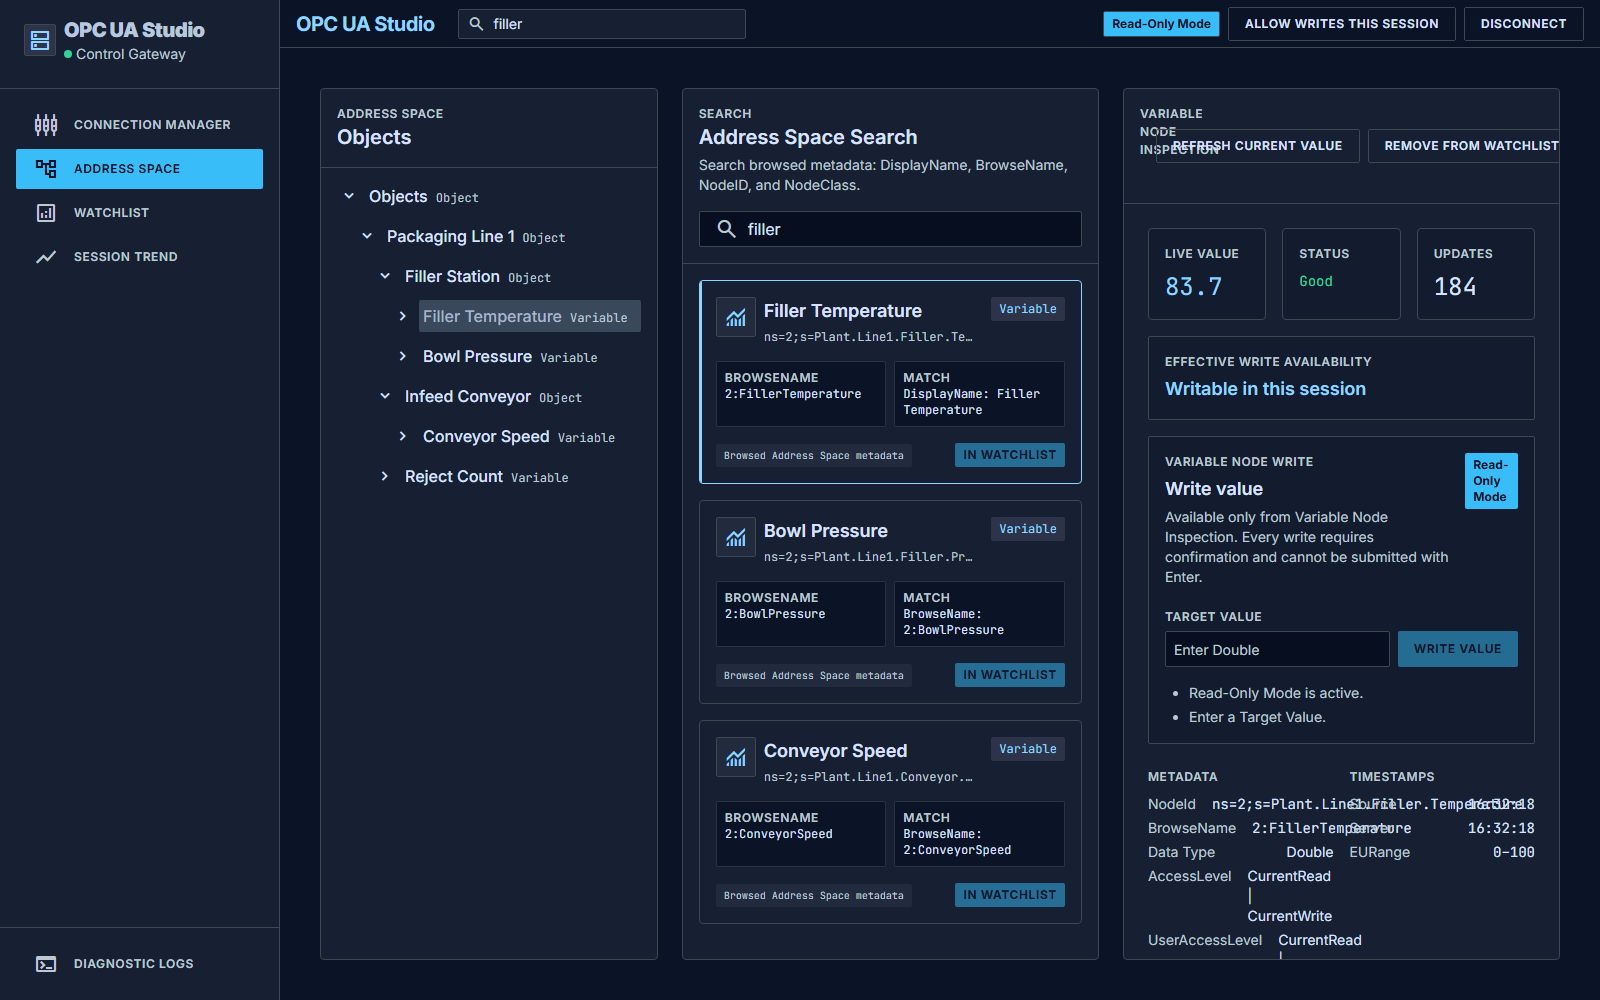
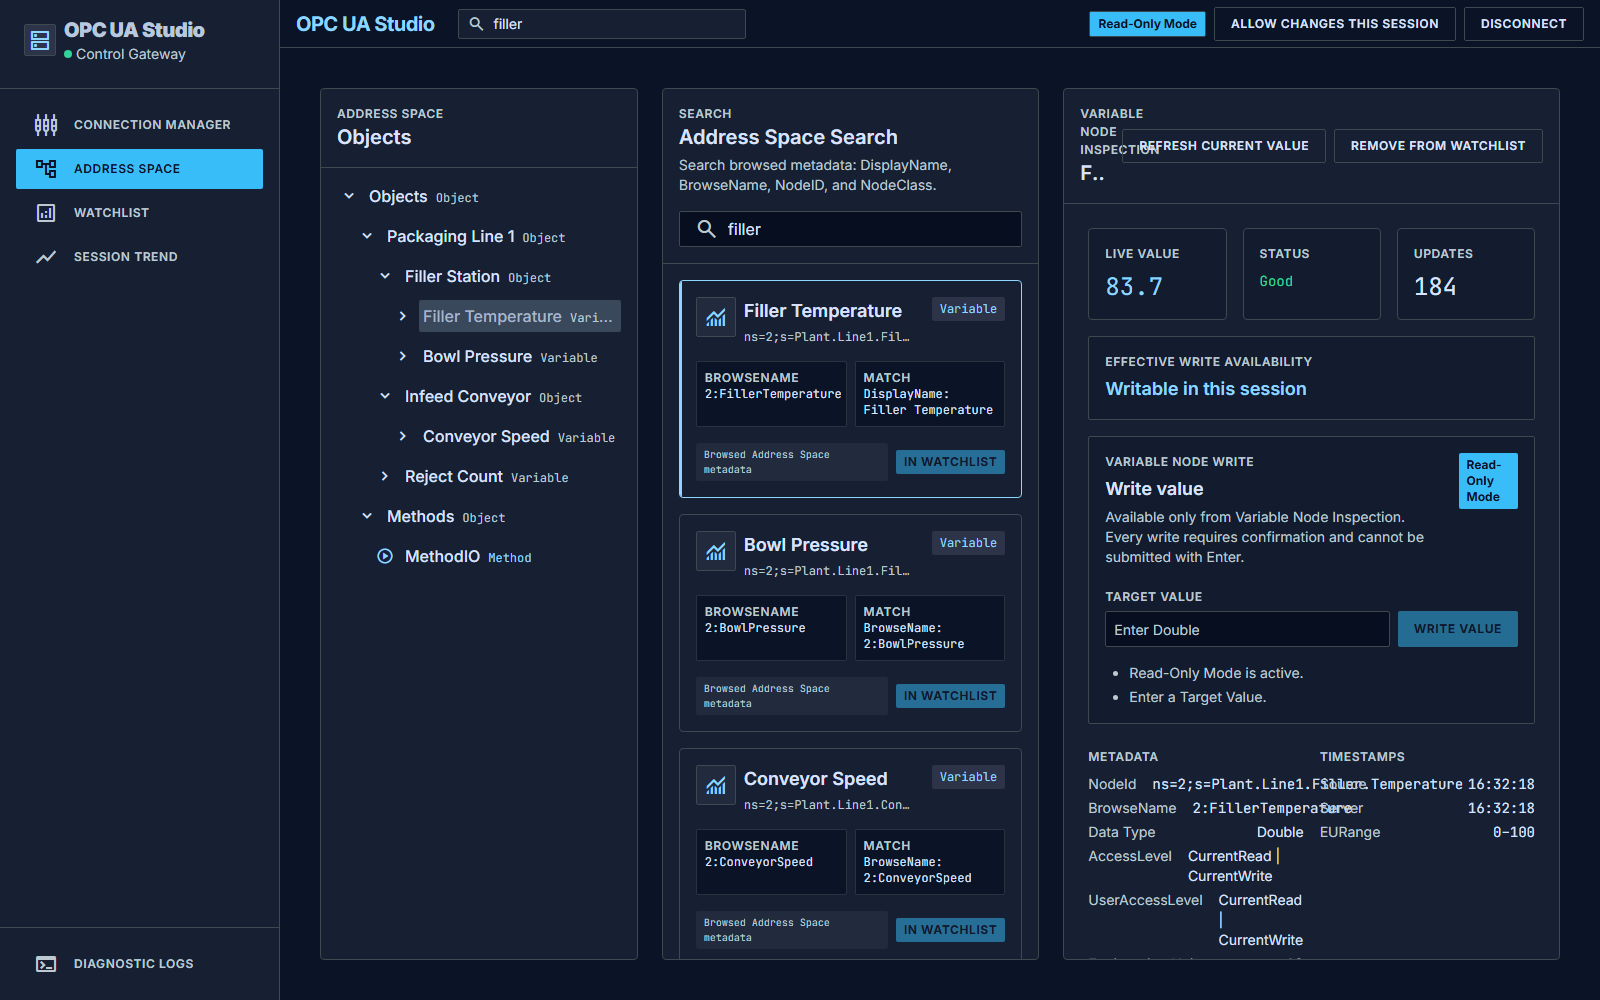
docs(opcua): document Method call validation
Add repeatable target signature coverage, regenerate Wails metadata and README screenshots, and document Method Call capabilities and limitations.

diff --git a/frontend/src/readmeScreenshots.ts b/frontend/src/readmeScreenshots.ts
@@ -165,7 +165,8 @@ export type ReadmeScreenshotState = {
   currentConnection: string
   tree: typeof tree
   selectedNodeID: string
-  inspection: typeof inspection
+  selectedMethod: AddressNode | null
+  inspection: typeof inspection | null
   confirmationInspectionUpdate: typeof inspection | null
   logs: Array<{ timestamp: string; level: string; message: string }>
   receiveRuntimeEvents: boolean
@@ -206,15 +207,16 @@ export function getReadmeScreenshotState(): ReadmeScreenshotState | null {
     readOnlyMode: requested === 'method-call-read-only' || (!requested.startsWith('write-') && !requested.startsWith('method-call')) || requested === 'write-read-only',
     currentConnection: 'Control Gateway',
     tree,
-    selectedNodeID: nodes.temp.NodeID,
-    inspection: inspectionForRequest(requested),
+    selectedNodeID: requested.startsWith('method-call') ? nodes.methodIO.NodeID : nodes.temp.NodeID,
+    selectedMethod: requested.startsWith('method-call') ? nodes.methodIO : null,
+    inspection: requested.startsWith('method-call') ? null : inspectionForRequest(requested),
     confirmationInspectionUpdate: requested === 'write-confirmation-live-value-change' ? changedInspection : null,
     logs: [],
     receiveRuntimeEvents: requested === 'write-feedback-events' || requested === 'method-call-events',
     watchlist,
     sessionTrend,
     focusedTrendNodeID: nodes.temp.NodeID,
-    searchQuery: requested === 'connections' ? '' : 'filler',
+    searchQuery: requested === 'connections' ? '' : requested.startsWith('method-call') ? 'method' : 'filler',
     searchView: requested.startsWith('method-call')
       ? { query: 'method', results: methodSearchResults as typeof searchResults, status: '1 Search Result found in browsed Address Space metadata.' }
       : { query: 'filler', results: searchResults, status: '3 Search Results found in browsed Address Space metadata.' },

diff --git a/frontend/src/App.svelte b/frontend/src/App.svelte
@@ -200,7 +200,7 @@
   let writeError = ''
   let writeConfirmOpen = false
   let writeConfirmationSnapshot: WriteConfirmationSnapshot | null = null
-  let selectedMethod: AddressNode | null = null
+  let selectedMethod: AddressNode | null = (readmeScreenshotState?.selectedMethod as AddressNode) ?? null
 
   $: selectedEndpointInfo = endpoints[selectedEndpoint]
   $: selectedSecurityMode = selectedEndpointInfo?.SecurityMode?.replace('MessageSecurityMode', '').trim() || ''

diff --git a/internal/opcua/client_integration_test.go b/internal/opcua/client_integration_test.go
@@ -127,6 +127,33 @@ func TestIntegrationReadMethodIOMetadata(t *testing.T) {
 	if result.StatusCode != "StatusGood (0x0)" || len(result.OutputArguments) != 1 || result.OutputArguments[0].DataType != "UInt32" || result.OutputArguments[0].Value != "uint32(42)" {
 		t.Fatalf("MethodIO call result = %#v, want StatusGood and UInt32 output 42", result)
 	}
+
+	// Inspect every readable demo Method to cover empty signature edges without
+	// executing Methods whose effects are not described by server metadata.
+	signatures := map[string]bool{"input-only": false, "output-only": false, "no-argument": false}
+	for _, child := range children {
+		if child.NodeClass != "Method" {
+			continue
+		}
+		candidate, readErr := client.ReadMethodDetails(ctx, objectNodeID, child.NodeID)
+		if readErr != nil {
+			t.Logf("Method metadata unavailable for %s: %v", child.NodeID, readErr)
+			continue
+		}
+		switch {
+		case len(candidate.InputArguments) > 0 && len(candidate.OutputArguments) == 0:
+			signatures["input-only"] = true
+		case len(candidate.InputArguments) == 0 && len(candidate.OutputArguments) > 0:
+			signatures["output-only"] = true
+		case len(candidate.InputArguments) == 0 && len(candidate.OutputArguments) == 0:
+			signatures["no-argument"] = true
+		}
+	}
+	for signature, found := range signatures {
+		if !found {
+			t.Errorf("no readable %s Method found below %s", signature, objectNodeID)
+		}
+	}
 }
 
 func TestIntegrationDiscoverEndpoints(t *testing.T) {

diff --git a/README.md b/README.md
@@ -15,6 +15,7 @@ OPC UA Studio helps automation engineers run a focused Troubleshooting Session a
 - keep important Variable Nodes in a Watchlist
 - review temporary Session Trend history from observed Live Value updates
 - deliberately write one supported scalar value to one writable Variable Node when Read-Only Mode is disabled
+- inspect and call discovered Method Nodes with supported scalar inputs when Read-Only Mode is disabled
 
 ## Features
 
@@ -28,7 +29,13 @@ Address Space Search finds Search Results from browsed metadata such as `Display
 
 ![Variable Node Inspection](docs/assets/readme/variable-node-inspection.png)
 
-Variable Node Inspection combines the current Live Value with status, timestamps, engineering unit, range metadata, stale state, and out-of-range state. OPC UA Studio starts each session in Read-Only Mode. After explicitly allowing writes for the connected session, Variable Node Write can change one supported scalar value on one writable Variable Node from the inspection view, requires confirmation, and refreshes the current value with a read-back result.
+Variable Node Inspection combines the current Live Value with status, timestamps, engineering unit, range metadata, stale state, and out-of-range state. OPC UA Studio starts each session in Read-Only Mode. After explicitly allowing changes for the connected session, Variable Node Write can change one supported scalar value on one writable Variable Node from the inspection view, requires confirmation, and refreshes the current value with a read-back result.
+
+### Inspect and call Methods
+
+![Method Call](docs/assets/readme/method-call.png)
+
+Selecting a discovered Method Node opens its Method Call panel with the owning Object Node, executable state, and ordered input/output metadata. Calls require leaving Read-Only Mode and an explicit click after reviewing the target and inputs. Supported scalar inputs are Boolean, String, signed and unsigned integers, Float, and Double. Arrays, matrices, optional or null values, structures, custom DataTypes, and other built-in DataTypes are displayed but cannot be entered in v1. Returned StatusCodes and output arguments are shown as raw values.
 
 ### Keep a troubleshooting Watchlist
 
@@ -78,6 +85,18 @@ npm run screenshots:readme
 ```
 
 This writes images to `docs/assets/readme/`.
+
+### Validate Method calls against the demo server
+
+The opt-in integration test uses the Unified Automation C++ demo server at `opc.tcp://localhost:48010`. Start that server, then run:
+
+```sh
+TERMUA_METHOD_TEST_ENDPOINT=opc.tcp://localhost:48010 go test ./internal/opcua -run Method -count=1 -v
+```
+
+The tracer inspects the input-only, output-only, and no-argument signatures exposed below `ns=3;s=Demo.CTT.Methods`. It executes only the known `MethodIO` tracer (`ns=3;s=Demo.CTT.Methods.MethodIO`), sending UInt32 values `20` and `22` and requiring `StatusGood` with `uint32(42)`.
+
+Anonymous connections using SecurityPolicy None are sufficient for this tracer. Some vendor demo Methods expose argument properties only over a secure channel and return `BadSecurityModeInsufficient` over None; OPC UA Studio reports those metadata failures rather than treating them as empty signatures. The tracer therefore logs unreadable Methods while requiring a readable example of each empty-signature edge. This validation does not broaden v1 input DataType support.
 
 ## Project docs
 

diff --git a/CONTEXT.md b/CONTEXT.md
@@ -60,6 +60,14 @@ _Avoid_: Asset, device card, folder
 A node in the Address Space that represents a readable, and sometimes writable, process value or state.
 _Avoid_: Tag, point, field
 
+**Method Node**:
+A node in the Address Space that represents an operation exposed by an OPC UA Server and is called in the context of an owning Object Node.
+_Avoid_: Action, command, function, endpoint
+
+**Method Call**:
+A deliberate request to execute a Method Node for its owning Object Node with ordered input arguments, producing a StatusCode and ordered output arguments.
+_Avoid_: Command execution, action run, function invocation
+
 **Observed Variable Node**:
 A Variable Node whose Live Value is watched during the current Troubleshooting Session and remains available in Session Trend.
 _Avoid_: Inspected node, trended node, sampled node, monitored node
